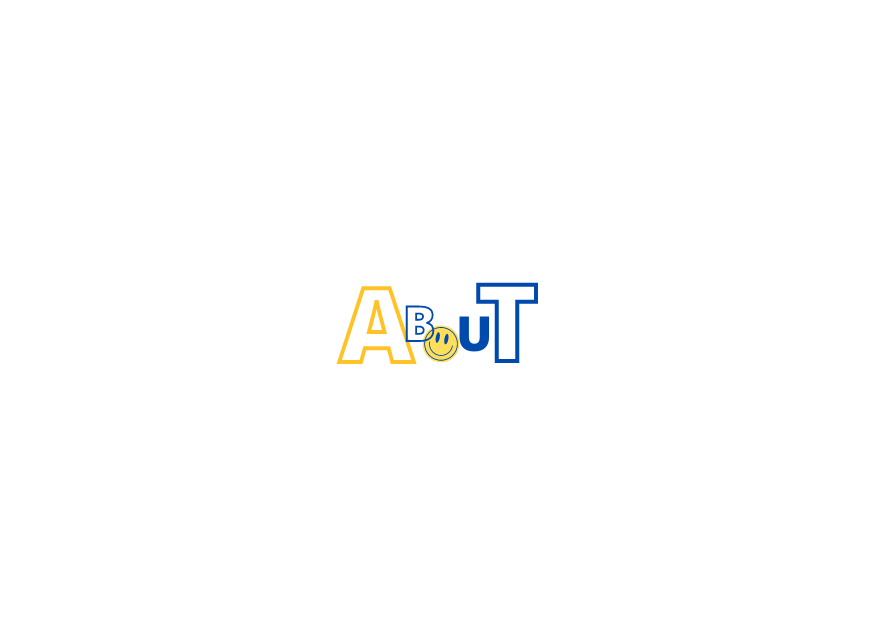
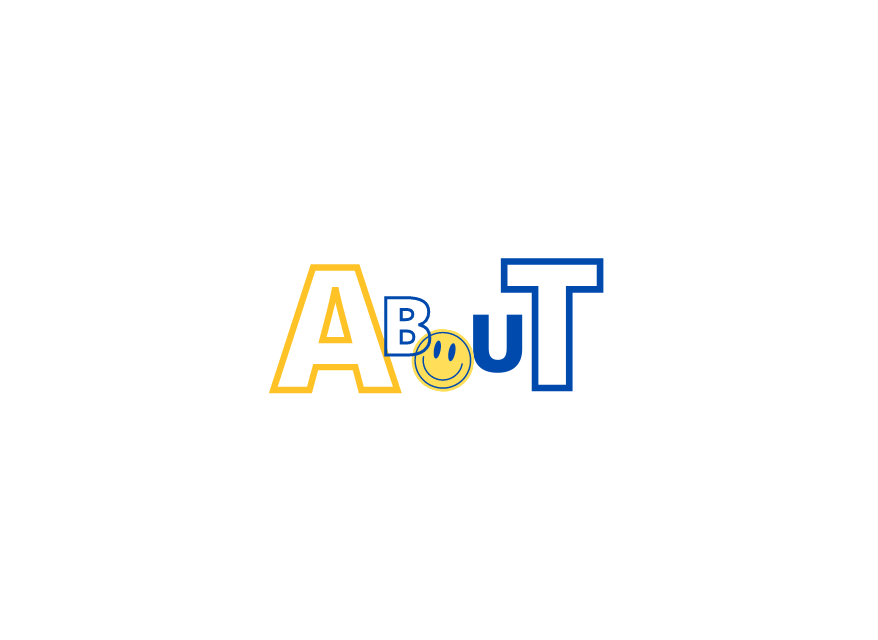
BG LINE DONE

Changed region(s): [[0.3075, 0.4062, 0.7073, 0.625]]

diff --git a/tailwind.config.js b/tailwind.config.js
@@ -19,23 +19,19 @@ module.exports = {
       // => @media (max-width: 639px) { ... }
     },
     colors: {
-      // brown: "#e2d3cd",
-      // grey: "#e3dad5",
-      // beige: "#e6cdb5",
-      // orange: "#f7d8b5",
-      // olive: "#d0c8b6",
-      // white: "#FFFAF0",
       back: "#f5f5ef",
       blue: "#004aad",
     },
     extend: {
       backgroundImage: {
-        line: "url('/src/assets/line.png')",
-        quote: "url('/src/assets/expectation.png')",
+        homeline: "url('/src/assets/homeline.png')",
+        aboutline: "url('/src/assets/aboutline.png')",
+        projectsline: "url('/src/assets/projectsline.png')",
+        toolsline: "url('/src/assets/toolsline.png')",
+        contactline: "url('/src/assets/contactline.png')",
       },
       fontFamily: {
         title: ["cyrvetica"],
-        body: ["Quicksand"],
       },
     },
   },

diff --git a/src/pages/Home.jsx b/src/pages/Home.jsx
@@ -3,10 +3,16 @@ import CarouselHome from "../components/CarouselHome";
 const Home = () => {
   return (
     <>
-      <div className="bg-back h-screen w-screen name=/">
-        <div className="flex flex-col text-blue font-title mx-8 sm:text-4xl sm:text-center">
-          <h1 className=" text-7xl"> NAWEL BENAICHA </h1>
-          <h2 className="text-5xl"> WEB DEVELOPER </h2>
+      <div className="bg-back bg-homeline bg-cover h-screen w-screen name=/">
+        <div className="flex flex-col text-blue font-title mx-8">
+          <h1 className=" text-7xl sm:text-5xl sm:text-center">
+            {" "}
+            NAWEL BENAICHA{" "}
+          </h1>
+          <h2 className="text-5xl sm:text-2xl sm:text-center">
+            {" "}
+            WEB DEVELOPER{" "}
+          </h2>
         </div>
         <CarouselHome />
       </div>

diff --git a/src/pages/Contact.jsx b/src/pages/Contact.jsx
@@ -1,9 +1,12 @@
 const Contact = () => {
   return (
-    <div className="bg-grey text-title h-full w-full" name="contact">
-      <h1 className="title text-center text-8xl ml-3.5 sm:text-6xl sm:text-center ">
+    <div
+      className="bg-contactline bg-cover h-screen w-screen bg-back"
+      name="contact"
+    >
+      <h1 className="text-blue text-7xl font-title mx-8 sm:text-6xl sm:text-center">
         {" "}
-        CONTACT{" "}
+        CONTACT ME{" "}
       </h1>
     </div>
   );

diff --git a/src/pages/Projects.jsx b/src/pages/Projects.jsx
@@ -1,9 +1,12 @@
 const Projects = () => {
   return (
-    <div className="bg-grey h-full w-full" name="projects">
-      <h1 className="title text-center text-8xl ml-3.5 sm:text-6xl sm:text-center">
+    <div
+      className="bg-projectsline bg-cover h-screen w-screen bg-back"
+      name="projects"
+    >
+      <h1 className="text-blue text-7xl font-title mx-8 sm:text-6xl sm:text-center">
         {" "}
-        PROJECTS{" "}
+        MY PROJECTS{" "}
       </h1>
     </div>
   );

diff --git a/src/pages/About.jsx b/src/pages/About.jsx
@@ -1,9 +1,12 @@
 const About = () => {
   return (
-    <div className=" h-screen w-screen bg-back" name="about">
-      <h1 className="text-blue text-7xl font-title mx-56 sm:text-6xl sm:text-center">
+    <div
+      className="bg-aboutline bg-cover h-screen w-screen bg-back"
+      name="about"
+    >
+      <h1 className="text-blue text-7xl font-title mx-8 sm:text-6xl sm:text-center">
         {" "}
-        ABOUT{" "}
+        ABOUT ME{" "}
       </h1>
     </div>
   );

diff --git a/src/pages/Tools.jsx b/src/pages/Tools.jsx
@@ -1,9 +1,12 @@
 const Tools = () => {
   return (
-    <div className="bg-grey h-full w-full" name="tools">
-      <h1 className="title text-center text-8xl ml-3.5 sm:text-6xl sm:text-center">
+    <div
+      className="bg-toolsline bg-cover h-screen w-screen bg-back"
+      name="tools"
+    >
+      <h1 className="text-blue text-7xl font-title mx-8 sm:text-6xl sm:text-center">
         {" "}
-        TOOLS{" "}
+        MY TOOLS{" "}
       </h1>
     </div>
   );

diff --git a/src/App.jsx b/src/App.jsx
@@ -10,9 +10,9 @@ function App() {
     <div>
       <Home />
       <About />
-      {/* <Projects />
+      <Projects />
       <Tools />
-      <Contact /> */}
+      <Contact />
     </div>
   );
 }
